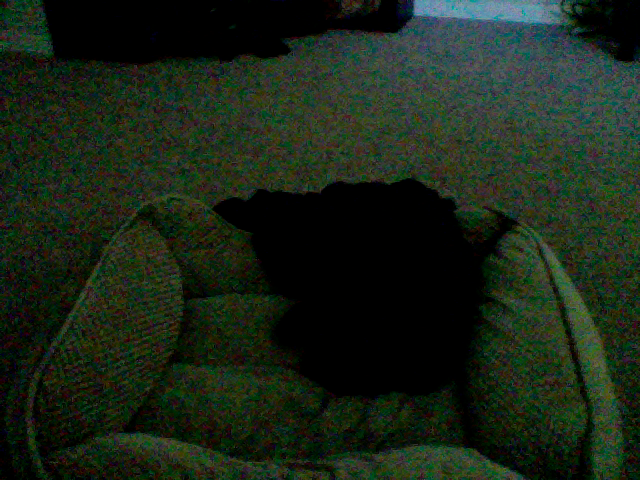
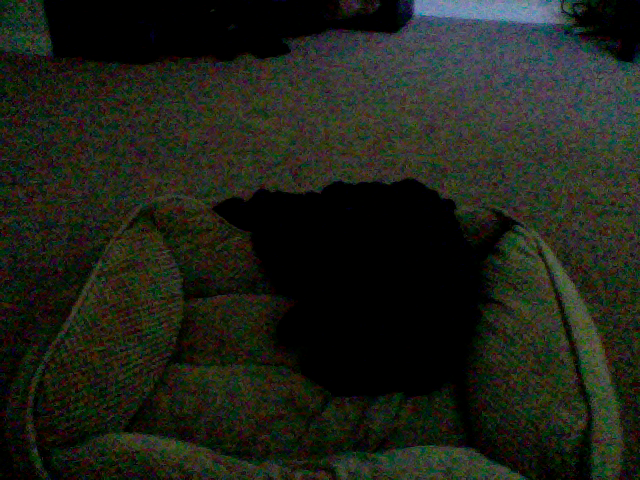
update at Month05Day08Time19:03

diff --git a/index.html b/index.html
@@ -40,7 +40,7 @@
       <div class="row">
         <div class="col-md-4">
 	<p>This picture was updated at Month05Day08Time19:03</p>
-		<img src="6_pic.png" />
+		<img src="7_pic.png" />
         </div>
       </div>
 
